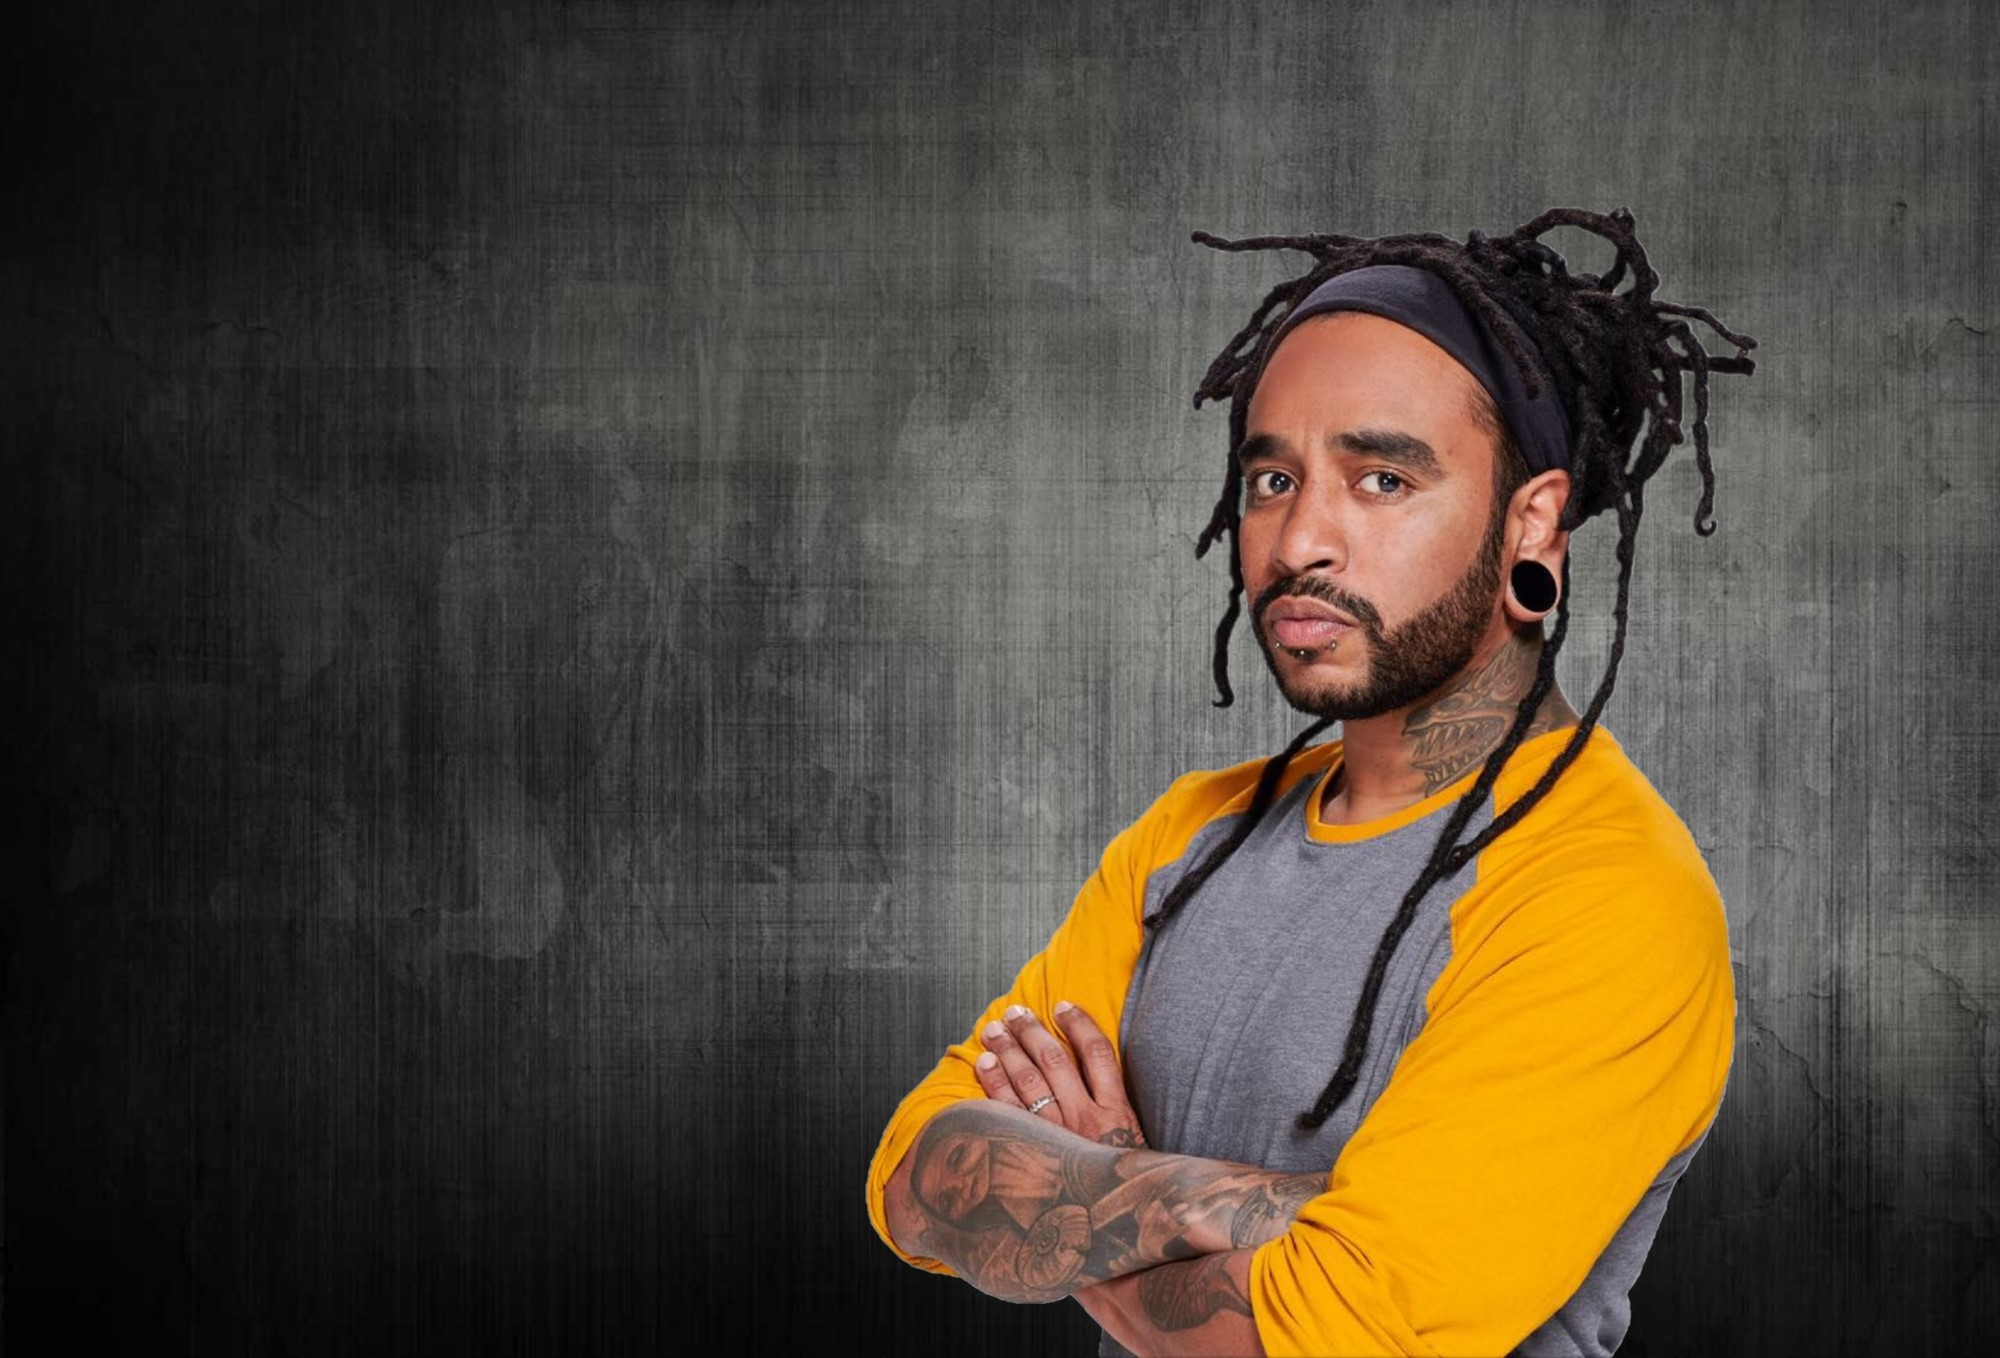
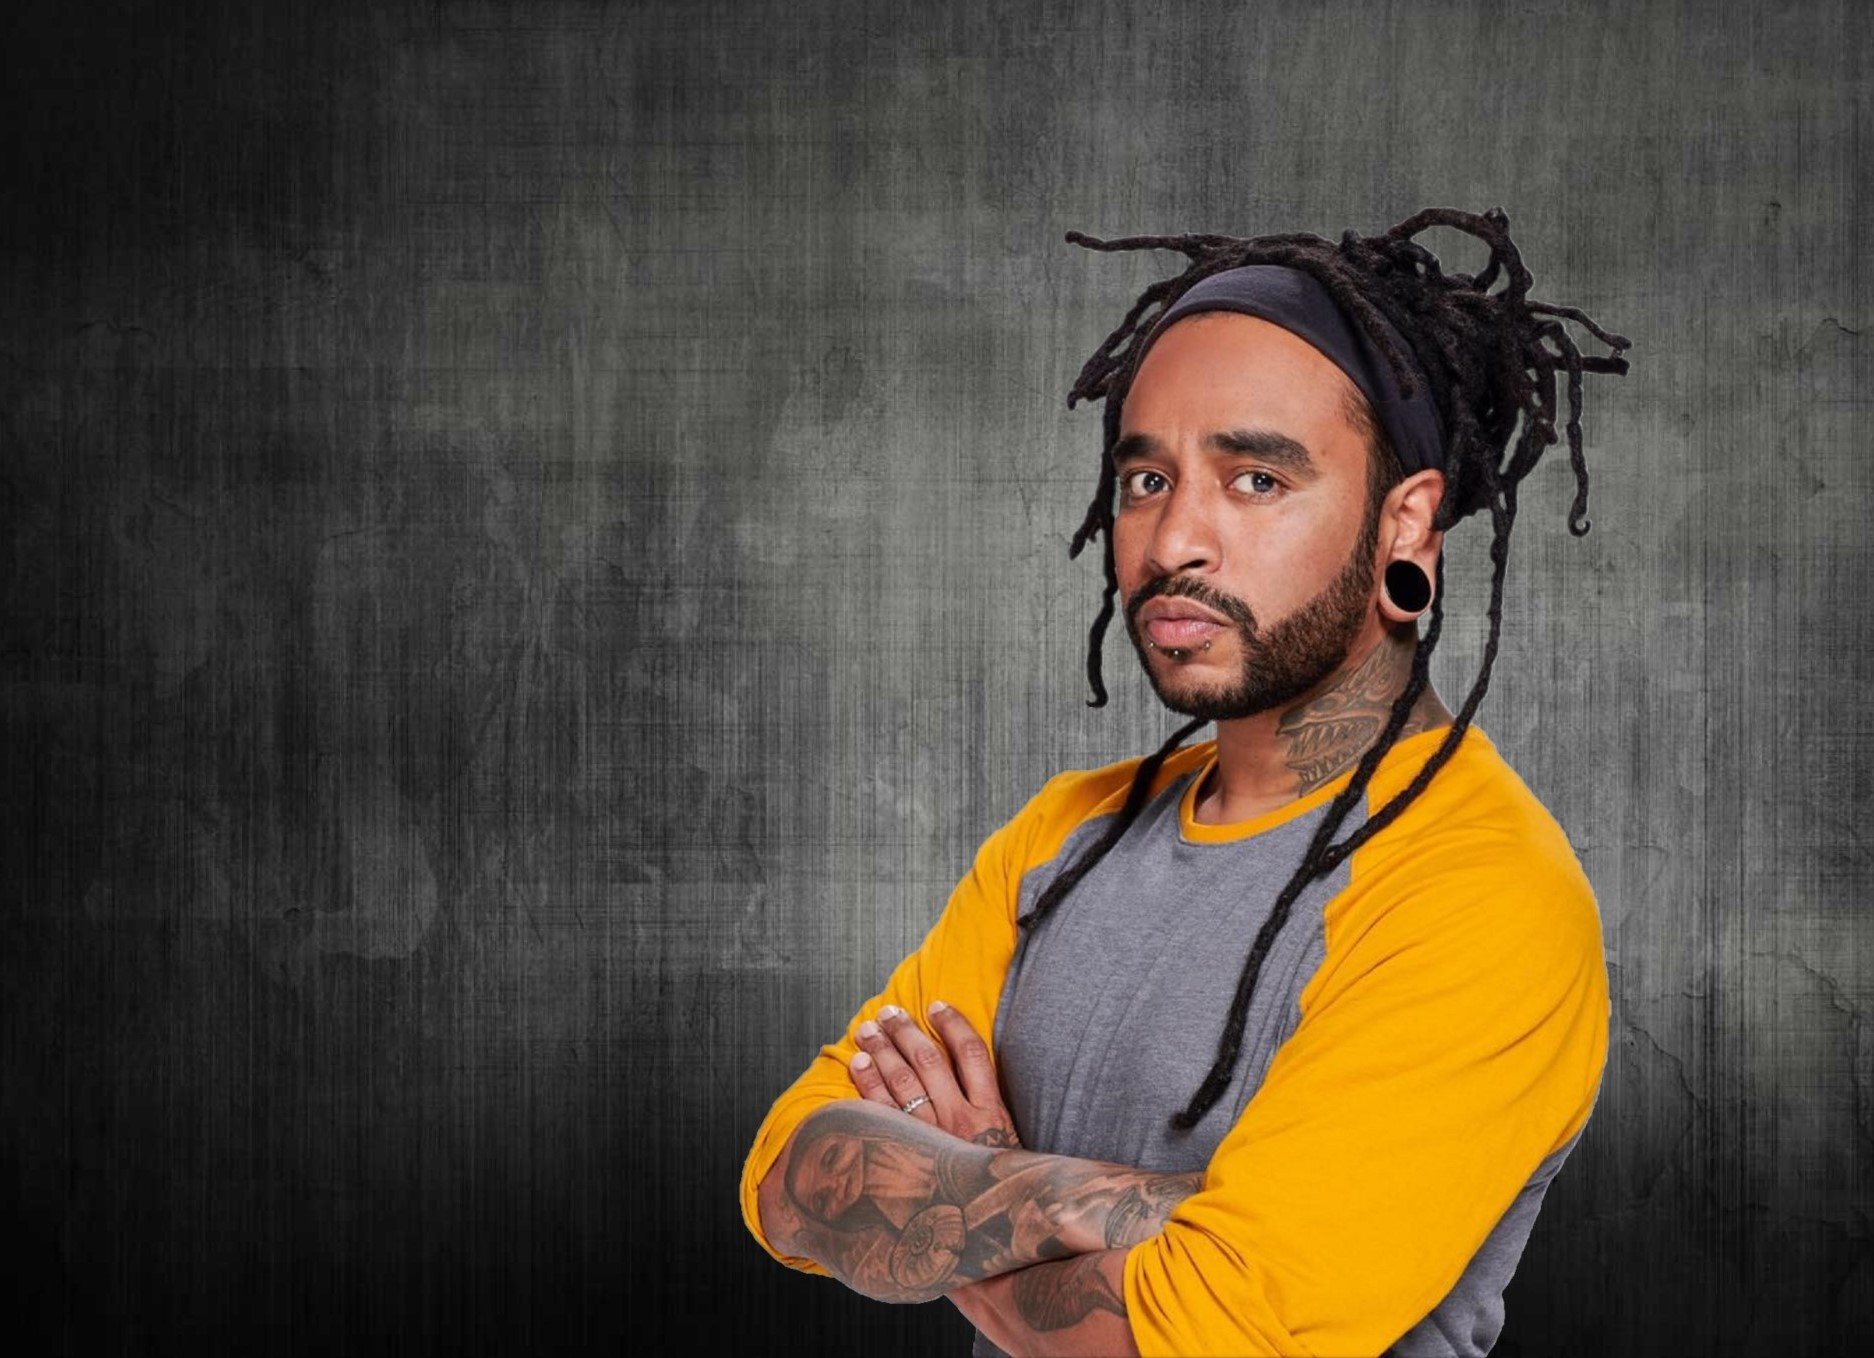
media queries

diff --git a/css/templatemo-style.css b/css/templatemo-style.css
@@ -168,6 +168,7 @@ a:hover {
 .tm-welcome-right img {
   display: flex;
   margin: auto;
+  padding-top: 1rem;
 }
 
 .tm-welcome-icon {
@@ -335,6 +336,14 @@ p {
 }
 
 @media (max-width: 991px) {
+  .tm-welcome-right img {
+    max-width: 300px;
+  }
+
+  .tm-welcome-left {
+    padding: 2rem 1.5rem;
+  }
+
   .tm-contact-items-container {
     flex-direction: column;
   }
@@ -360,6 +369,7 @@ p {
 
   .contact {
     color: #222;
+
   }
 
   .iframe {
@@ -413,11 +423,11 @@ p {
   }
 
   .contact {
-    display: inline;
+    color: black;
   }
 
   .medialinks i {
-    padding: 0rem 1rem;
     font-size: 2rem;
-    color: black;
+    padding: 5px;
   }
+}

diff --git a/index.html b/index.html
@@ -160,7 +160,7 @@
         <footer class="col-12">
           <p class="text-center tm-copyright-text">
             Copyright 2019 Tito Zambrano
-
+            <br>
             - Design: <a rel="nofollow" href="https://www.bryannishi.com" target="_blank">Bryan Nishi</a></p>
         </footer>
       </div>
